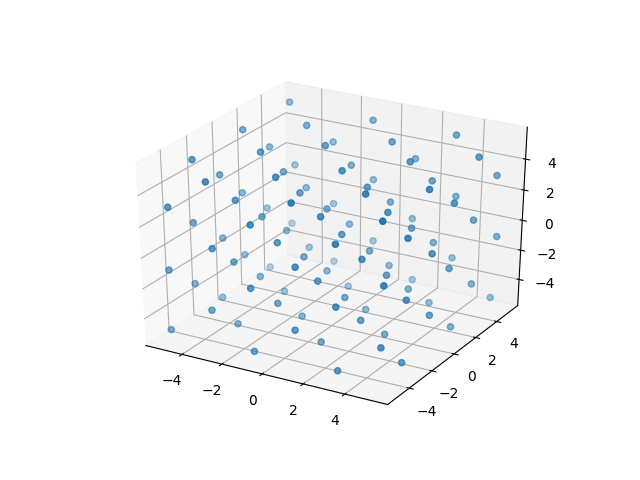
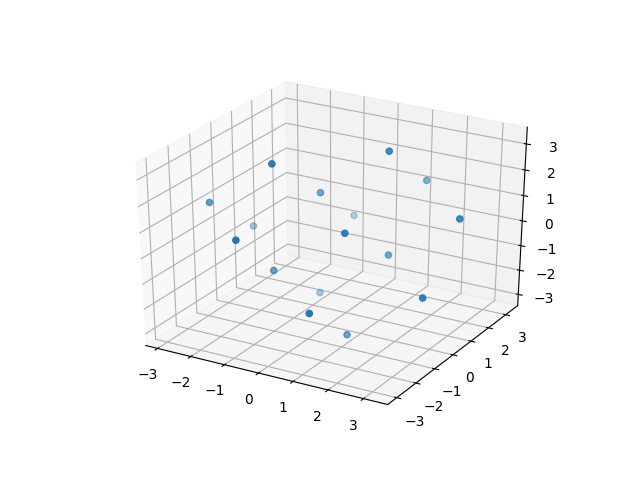
ラムダ式の使い方の変更

diff --git a/AFM_C++/main.cpp b/AFM_C++/main.cpp
@@ -85,12 +85,11 @@ int main(){
   points3d a(1, true, 4.078);
   a.face_centered_cubic(10,10,10);
   a.shift(-5,-5,-5);
-  auto fn = [](tuple<float,float,float> xyz){
+  a.trim([](tuple<float,float,float> xyz){
     float x = get<0>(xyz);
     float y = get<1>(xyz);
     float z = get<2>(xyz);
     return 16 > x*x + y*y + z*z;
-  };
-  //a.trim(fn);
+  });
   a.print();
 }
